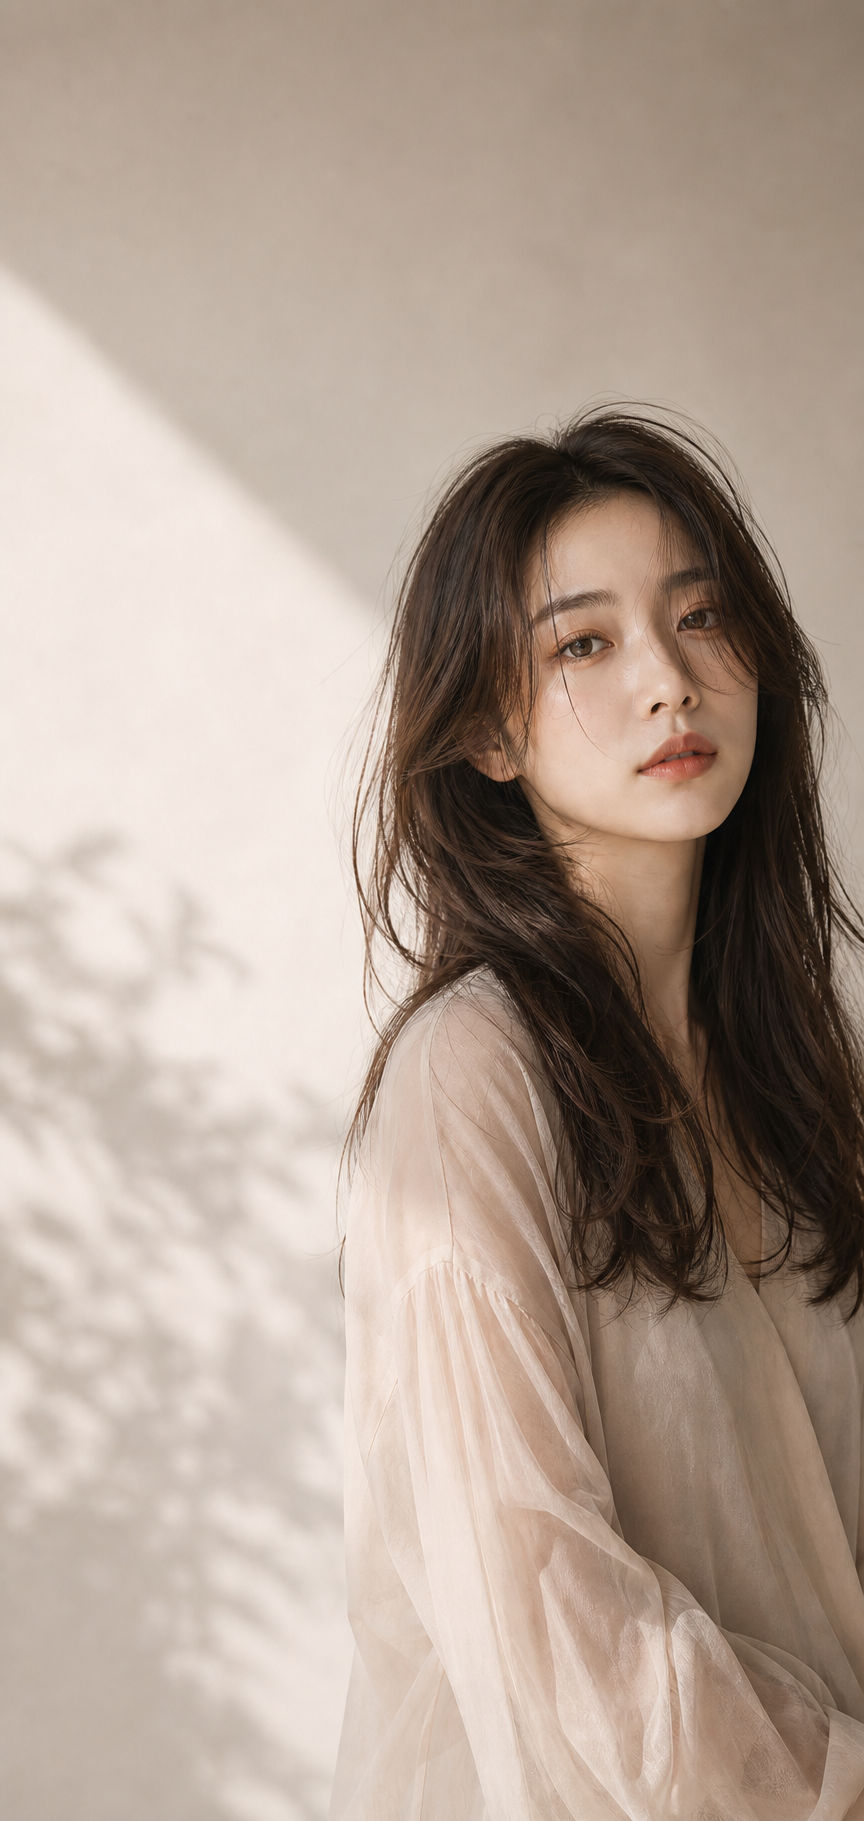
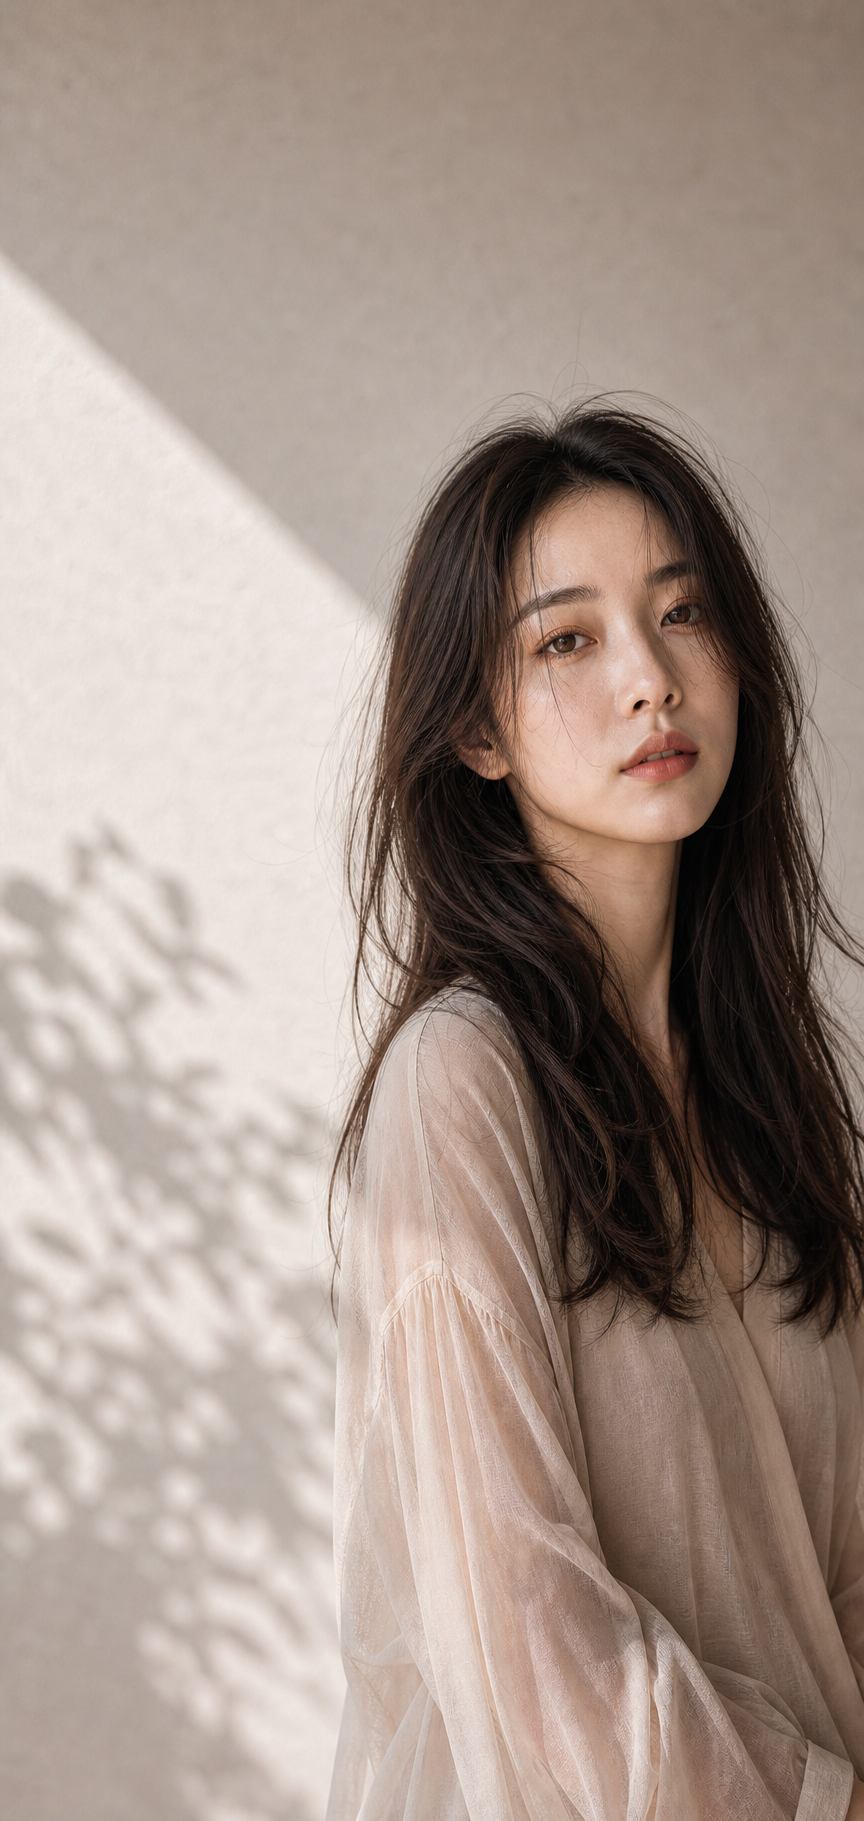
Refine hero image and activity links

diff --git a/src/components.jsx b/src/components.jsx
@@ -116,6 +116,7 @@ const activityItems = [
     text: "サロンワークだけでなく、表現の場も大切にするサロン。",
     src: assets.hairshow,
     alt: "MiiiUのクリエイティブ活動を表すサロンイメージ",
+    href: "https://2025.campuscollection.jp/sendai/",
   },
   {
     title: "Japan Brand Collection",
@@ -632,10 +633,11 @@ function ActivitySection() {
                   className="activity-image-link"
                   href={item.href}
                   target="_blank"
-                  rel="noreferrer"
+                  rel="noopener noreferrer"
                   aria-label={`${item.title} 掲載ページを見る`}
                 >
                   <img src={item.src} alt={item.alt} {...imageProps} />
+                  <span className="activity-external-label">View More ↗</span>
                 </a>
               ) : (
                 <img src={item.src} alt={item.alt} {...imageProps} />

diff --git a/src/index.css b/src/index.css
@@ -1451,9 +1451,32 @@ summary {
 }
 
 .activity-image-link {
+  position: relative;
   display: block;
   height: 100%;
   color: inherit;
+}
+
+.activity-external-label {
+  position: absolute;
+  right: 0.6rem;
+  bottom: 0.6rem;
+  z-index: 2;
+  padding: 0.32rem 0.46rem;
+  background: rgba(255, 253, 248, 0.82);
+  color: rgba(151, 119, 58, 0.86);
+  font-size: 0.56rem;
+  letter-spacing: 0.12em;
+  pointer-events: none;
+  transition:
+    background-color 220ms ease,
+    color 220ms ease;
+}
+
+.activity-image-link:hover .activity-external-label,
+.activity-image-link:focus-visible .activity-external-label {
+  background: rgba(255, 253, 248, 0.94);
+  color: rgba(128, 96, 38, 0.96);
 }
 
 .activity-image-link:focus-visible {
